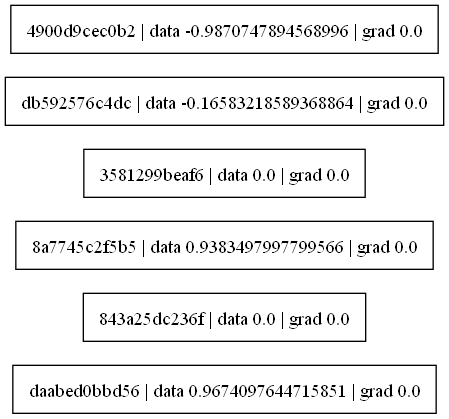
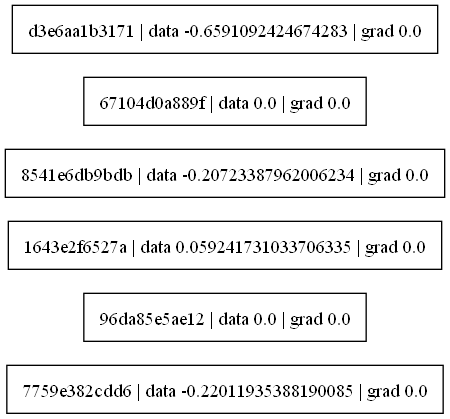
refactor and added examples

diff --git a/src/transformer/tokenizer.rs b/src/transformer/tokenizer.rs
@@ -5,7 +5,7 @@ use crate::Result;
 // TODO:build Byte Pair Encoding Tokenizer
 // Optional: encoding rules???
 #[derive(Debug)]
-struct BytePairEncoder {
+pub struct BytePairEncoder {
     vocabulary: HashMap<String, usize>,
     merges: HashMap<(usize, usize), usize>,
     max_token_id: usize,
@@ -37,13 +37,28 @@ impl BytePairEncoder {
         Ok(encoded_byte_rep)
     }
 
-    pub fn get_token_id(&mut self) -> usize {
+    fn get_token_id(&mut self) -> usize {
         self.max_token_id += 1;
         let id = self.max_token_id.clone();
         id
     }
 
-    pub fn encode(&mut self, input: Vec<usize>) -> Result<Vec<usize>> {
+    pub fn encode(&mut self, input: Vec<usize>) -> Result<usize> {
+        let mut input_vec = input;
+        loop {
+            if input_vec.len() <= 1 {
+                break;
+            } else {
+                input_vec = self.encode_once(input_vec)?;
+            }
+        }
+        if let Some(output) = input_vec.pop() {
+            Ok(output)
+        } else {
+            unreachable!("we checked in the loop");
+        }
+    }
+    fn encode_once(&mut self, input: Vec<usize>) -> Result<Vec<usize>> {
         let mut counts: HashMap<(usize, usize), usize> = HashMap::new();
 
         let _ = input
@@ -66,13 +81,23 @@ impl BytePairEncoder {
             .expect("can find a top count");
         let id = self.get_token_id();
         self.merges.insert(top_count.to_owned(), id);
-        //TODO: got to here!
-        todo!();
+        let mut output: Vec<usize> = Vec::new();
+        let mut it = input.into_iter().peekable();
+        while let Some(token) = it.next() {
+            if !it.peek().is_none() {
+                let test = (token, it.peek().expect("value can be found").to_owned());
+                match self.merges.get(&test) {
+                    Some(value) => {
+                        // consume both tokens and replace with merge value
+                        it.next();
+                        output.push(value.to_owned())
+                    }
+                    None => output.push(token), // add the not found token to the list
+                }
+            }
+        }
 
-        println!("counts: {:?}", counts);
-        println!("top count: {:?}", top_count);
-
-        Ok(Vec::new())
+        Ok(output)
     }
 }
 
@@ -104,11 +129,7 @@ mod tests {
         let mut encoder = BytePairEncoder::default();
         let encoded = encoder.from_utf8(input)?;
         let output = encoder.encode(encoded)?;
-
-        let expected = vec![
-            104, 101, 108, 108, 111, 32, 119, 111, 114, 108, 100, 44, 32, 119, 101, 32, 97, 114,
-            101, 32, 112, 114, 111, 103, 114, 97, 109, 109, 105, 110, 103, 33,
-        ];
+        let expected = 258;
         println!("{:?}", encoder);
 
         assert_eq!(output, expected);

diff --git a/src/micrograd/visualize.rs b/src/micrograd/visualize.rs
@@ -1,10 +1,9 @@
-use std::{collections::HashSet, error::Error};
+use std::collections::HashSet;
 
 use graphviz_rust::{
     attributes::{rankdir::LR, shape::rect, GraphAttributes, NodeAttributes},
     cmd::{CommandArg, Format},
-    dot_generator::*,
-    dot_structures::{Attribute, Edge, EdgeTy, Graph, Id::Html, Node, NodeId, Stmt, Vertex},
+    dot_structures::{Edge, EdgeTy, Graph, Id::Html, Node, NodeId, Stmt, Vertex},
     exec_dot,
     printer::{DotPrinter, PrinterContext},
 };
@@ -34,7 +33,7 @@ pub fn visualize_network(network: MLP, filename: String) -> Result<String> {
     Ok(dot)
 }
 
-fn output_graph_file(dot_graph: &String, filename: String) -> Result<()> {
+pub fn output_graph_file(dot_graph: &String, filename: String) -> Result<()> {
     exec_dot(
         dot_graph.clone(),
         vec![Format::Png.into(), CommandArg::Output(filename)],
@@ -74,7 +73,7 @@ fn uuid_to_id(id: Uuid) -> Result<String> {
         .to_owned())
 }
 
-fn draw_dots(root: Value) -> Result<String> {
+pub fn draw_dots(root: Value) -> Result<String> {
     // for a single root
     let (nodes, edges) = trace_nodes(root)?;
     make_graph(nodes, edges)
@@ -173,19 +172,7 @@ mod tests {
 
         println!("{}", &dot);
 
-        let _ = output_graph_file(&dot, "./test.png".to_string());
-
         // Validate the dot output
         assert_eq!(dot, "expected_dot_output");
-    }
-    #[test]
-    fn test_draw_mlp() -> Result<()> {
-        let model = MLP::new(vec![2, 2]);
-
-        let dot = visualize_network(model, "./test-model.png".to_string())?;
-
-        assert_eq!(dot, "expected_dot_output");
-
-        Ok(())
     }
 }

diff --git a/examples/c00_micro_grad_make_moons.rs b/examples/c00_micro_grad_make_moons.rs
@@ -1,10 +1,12 @@
 use std::{
-    error::Error,
     fs::File,
     io::{BufRead, BufReader},
 };
 
-use neural_net_rs::micrograd::{visualize_network, Value, MLP};
+use neural_net_rs::{
+    micrograd::{visualize_network, Value, MLP},
+    Result,
+};
 
 pub struct DataPoint {
     x: f64,
@@ -12,7 +14,7 @@ pub struct DataPoint {
     label: f64,
 }
 
-pub fn read_csv_file(filename: &str) -> Result<Vec<DataPoint>, Box<dyn Error>> {
+pub fn read_csv_file(filename: &str) -> Result<Vec<DataPoint>> {
     let file = File::open(filename)?;
     let reader = BufReader::new(file);
     let data_points: Vec<DataPoint> = reader
@@ -113,7 +115,7 @@ pub fn plot_ascii(model: &MLP, bound: isize) {
     }
 }
 
-fn main() {
+fn main() -> Result<()> {
     let model = MLP::new(vec![2, 16, 16, 1]);
     let (data, labels) = load_moon_data();
     let alpha = 0.001;
@@ -135,4 +137,5 @@ fn main() {
     }
     plot_ascii(&model, 20);
     let _ = visualize_network(model, "./moon_graph.png".to_string());
+    Ok(())
 }

diff --git a/examples/c00-1_graphviz.rs b/examples/c00-1_graphviz.rs
@@ -1,0 +1,21 @@
+use neural_net_rs::micrograd::{draw_dots, output_graph_file, Value};
+use neural_net_rs::Result;
+
+fn main() -> Result<()> {
+    // Toy example making a graphviz
+    let a = Value::from(2.0);
+    let b = Value::from(-3.0);
+    let c = Value::from(10.0);
+    let e = &a * &b;
+    let d = &e + &c;
+    let f = Value::from(-2.0);
+    let label = &d * &f;
+
+    // Call the draw_dots function
+    let dot = draw_dots(label).unwrap();
+
+    println!("{}", &dot);
+
+    let _ = output_graph_file(&dot, "./test.png".to_string());
+    Ok(())
+}

diff --git a/examples/c01_tokenizer.rs b/examples/c01_tokenizer.rs
@@ -1,0 +1,15 @@
+use neural_net_rs::{transformer::BytePairEncoder, Result};
+
+fn main() -> Result<()> {
+    let input = "aabbabax";
+    println!("input string: {input}");
+    let mut encoder = BytePairEncoder::default();
+    let encoded = encoder.from_utf8(input)?;
+    println!("0th encoded string {:?}", encoded);
+    let output = encoder.encode(encoded)?;
+
+    println!("{:?}", encoder);
+    println!("1st encoded string: {:?}", output);
+
+    Ok(())
+}

diff --git a/src/transformer/mod.rs b/src/transformer/mod.rs
@@ -1,1 +1,3 @@
 pub mod tokenizer;
+
+pub use tokenizer::*;
